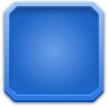
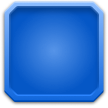
Add Mythic, Item Quantity

diff --git a/Gui/generate_rarity_icons.py b/Gui/generate_rarity_icons.py
@@ -1,26 +1,31 @@
 import os
+import numpy as np
 from PIL import Image, ImageEnhance
 
-def recolor_frame(img, hue_deg, sat_mult=1.0, val_mult=1.0, is_grey=False):
+def recolor_frame(img, hue_deg=0, sat_mult=1.0, val_mult=1.0, gradient_hue=None):
     r, g, b, a = img.split()
     rgb_img = Image.merge("RGB", (r, g, b))
 
     hsv_img = rgb_img.convert("HSV")
-    h, s, v = hsv_img.split()
-
-    if is_grey:
-        new_s = Image.new("L", s.size, 0)
-        v_enhanced = ImageEnhance.Brightness(v).enhance(val_mult)
-        new_hsv = Image.merge("HSV", (h, new_s, v_enhanced))
+    _, s, v = hsv_img.split()
+    width, height = img.size
+    if gradient_hue:
+        start_deg, end_deg = gradient_hue
+        x = np.linspace(0, 1, width)
+        y = np.linspace(0, 1, height)
+        xx, yy = np.meshgrid(x, y)
+        
+        diag = (xx + yy) / 2.0
+        h_array = (start_deg + (end_deg - start_deg) * diag) % 360.0
+        new_h = Image.fromarray((h_array / 360.0 * 255).astype(np.uint8), mode="L")
     else:
         target_h = int((hue_deg % 360) / 360.0 * 255)
-        new_h = Image.new("L", h.size, target_h)
-        
-        s_enhanced = ImageEnhance.Color(Image.merge("RGB", (s, s, s))).enhance(sat_mult).split()[0]
-        v_enhanced = ImageEnhance.Brightness(v).enhance(val_mult)
-        
-        new_hsv = Image.merge("HSV", (new_h, s_enhanced, v_enhanced))
+        new_h = Image.new("L", (width, height), target_h)
 
+    new_s = s.point(lambda p: min(255, int(p * sat_mult)))
+    new_v = ImageEnhance.Brightness(v).enhance(val_mult)
+    
+    new_hsv = Image.merge("HSV", (new_h, new_s, new_v))
     new_rgb = new_hsv.convert("RGB")
     r2, g2, b2 = new_rgb.split()
     
@@ -38,33 +43,33 @@ def generate_rarity_icons(image_path="Icon.png", output_dir="Rarity"):
 
     rarities = {
         "common": {
-            "is_grey": True,
-            "val_mult": 0.85,
-            "hue_deg": 0
+            "sat_mult": 0.0,
+            "val_mult": 0.85
         },
         "uncommon": {
             "hue_deg": 125,
             "sat_mult": 1.1,
-            "val_mult": 1.0,
-            "is_grey": False
+            "val_mult": 1.0
         },
         "rare": {
             "hue_deg": 215,
             "sat_mult": 1.15,
-            "val_mult": 1.0,
-            "is_grey": False
+            "val_mult": 1.0
         },
         "epic": {
             "hue_deg": 285,
             "sat_mult": 1.2,
-            "val_mult": 0.98,
-            "is_grey": False
+            "val_mult": 0.98
         },
         "legendary": {
             "hue_deg": 38,
             "sat_mult": 1.0,
-            "val_mult": 1.0,
-            "is_grey": False
+            "val_mult": 1.0
+        },
+        "mythic": {
+            "gradient_hue": (295, 175),
+            "sat_mult": 1.3,
+            "val_mult": 1.12
         }
     }
 
@@ -74,7 +79,7 @@ def generate_rarity_icons(image_path="Icon.png", output_dir="Rarity"):
             hue_deg=settings.get("hue_deg", 0),
             sat_mult=settings.get("sat_mult", 1.0),
             val_mult=settings.get("val_mult", 1.0),
-            is_grey=settings.get("is_grey", False)
+            gradient_hue=settings.get("gradient_hue", None)
         )
         
         output_path = os.path.join(output_dir, f"{rarity}.png")
